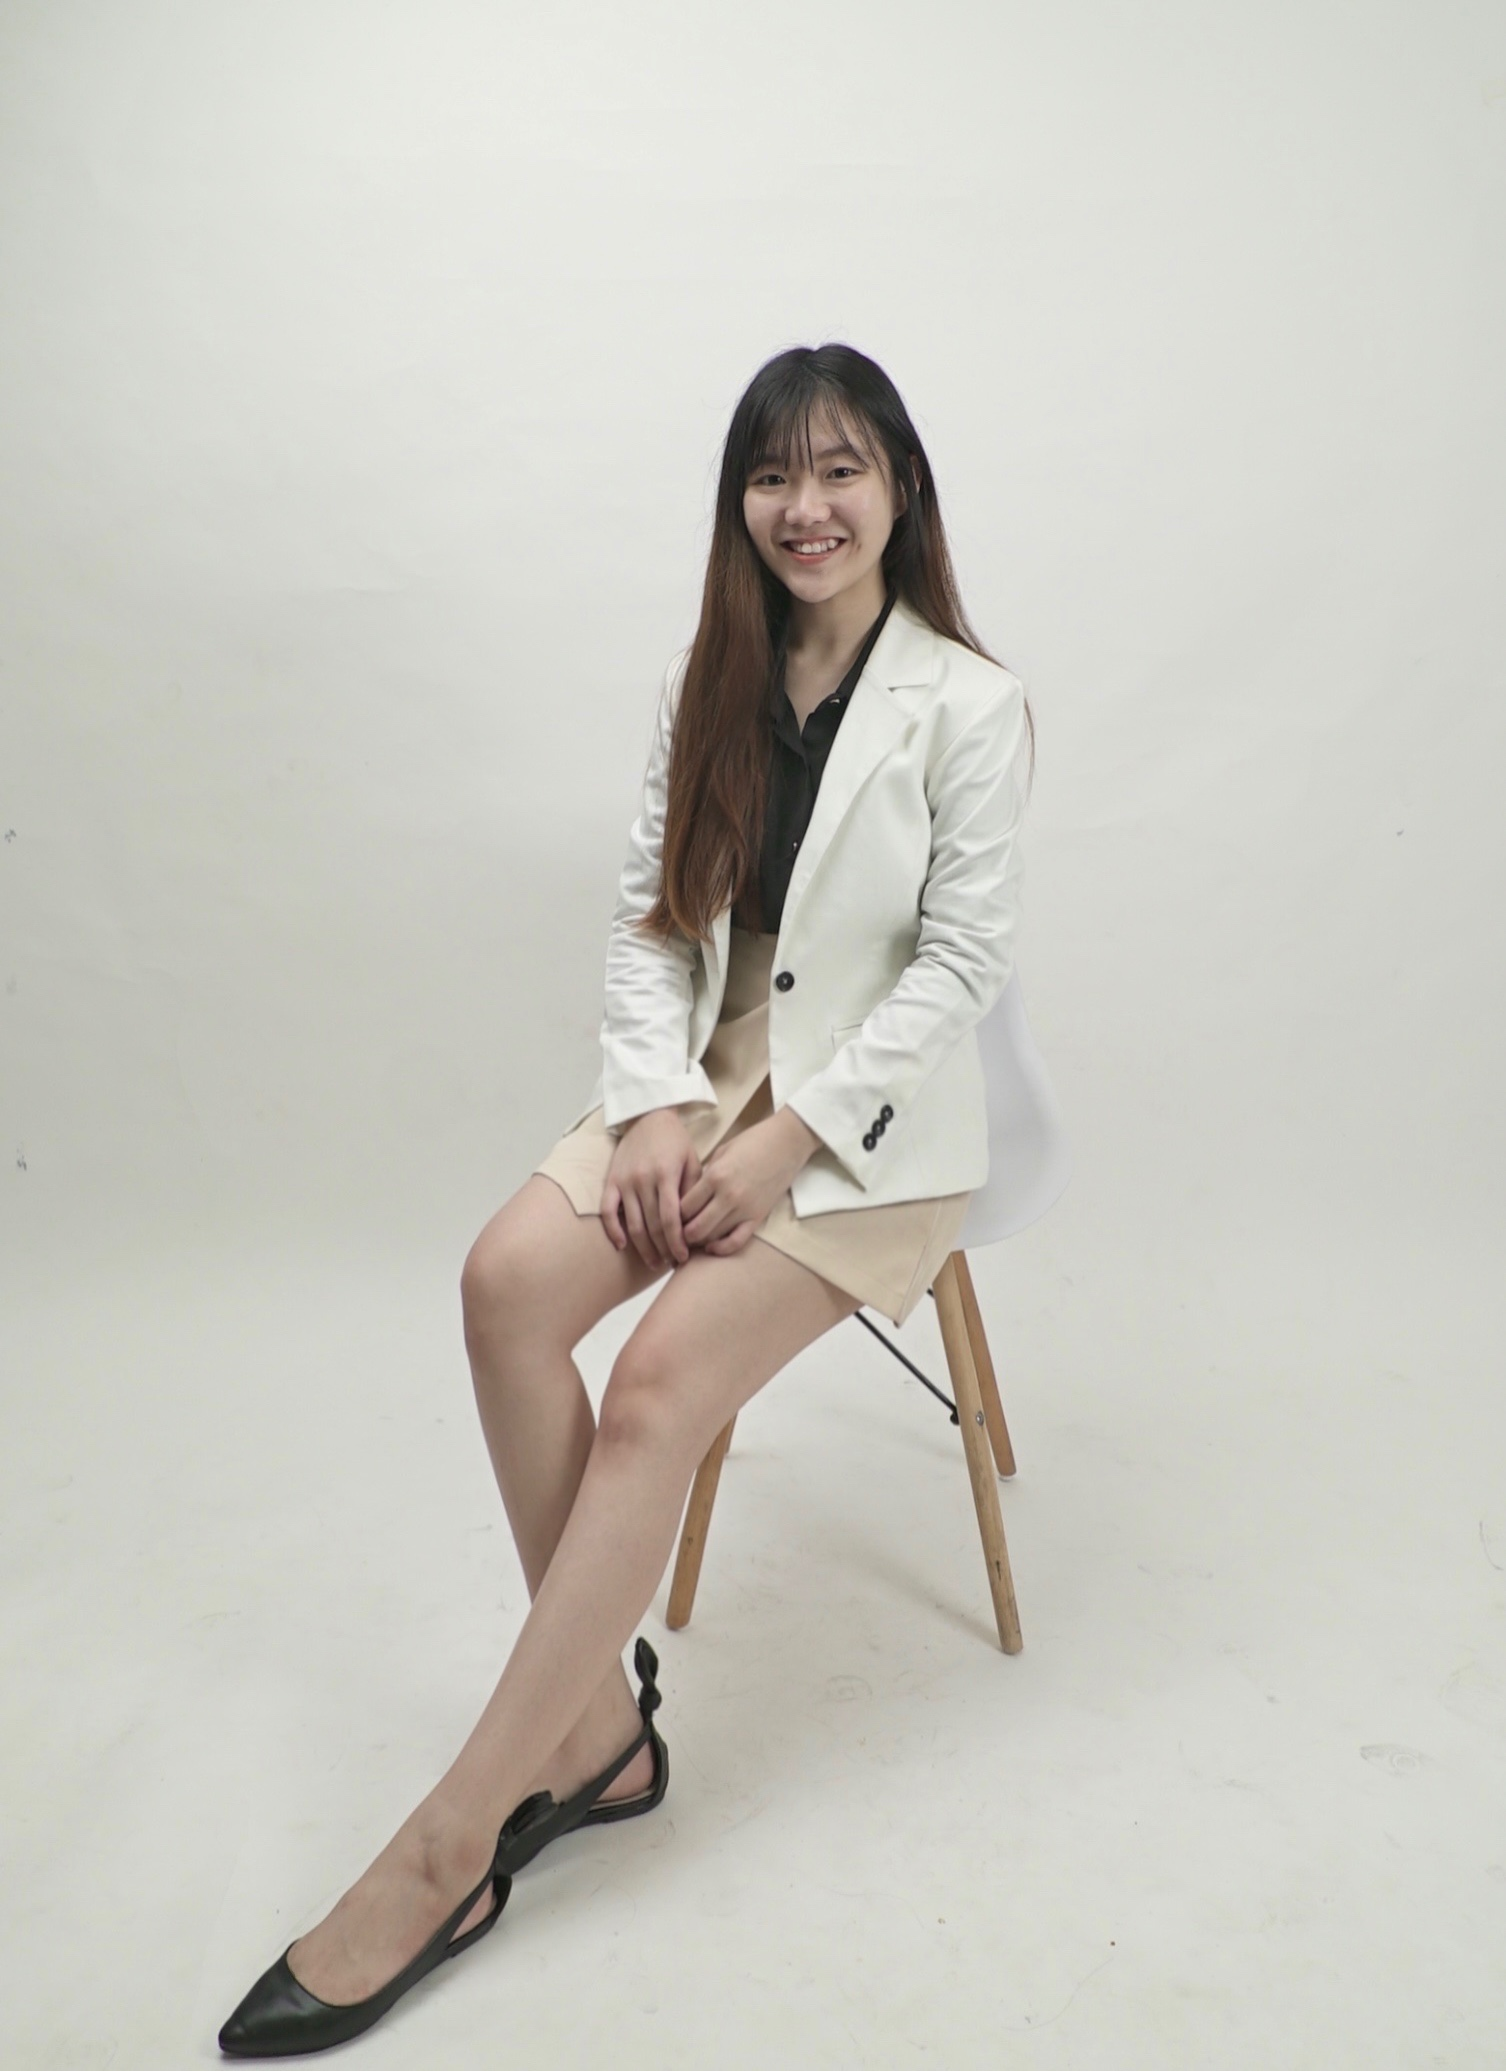
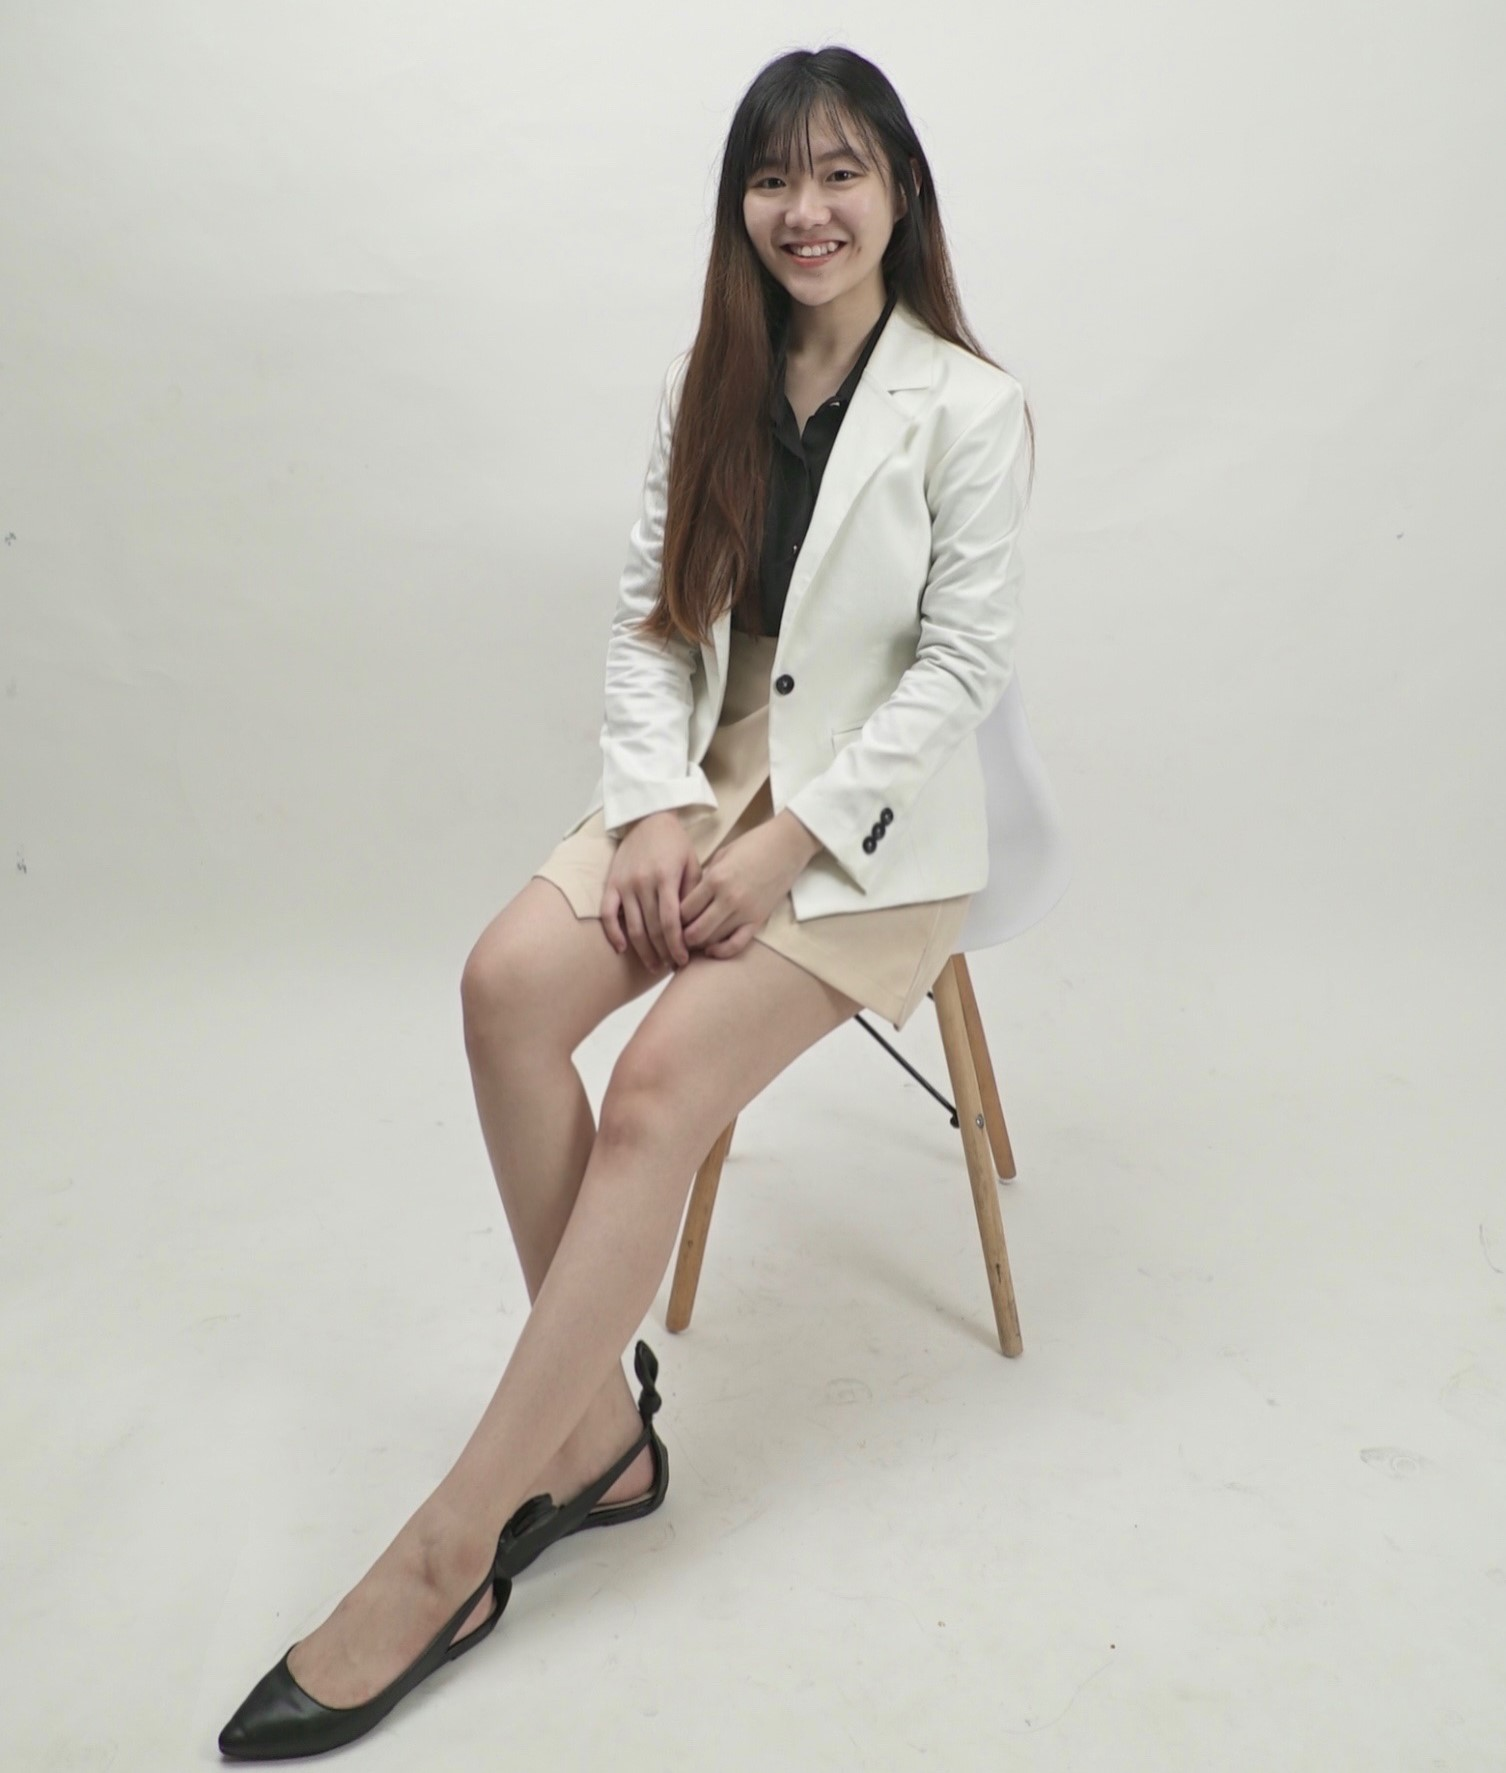
CEO image adjust

Changed region(s): [[0.156, 0.0, 0.6866, 0.9927], [0.5305, 0.6825, 0.5618, 0.7135]]

diff --git a/index.html b/index.html
@@ -363,7 +363,7 @@
     <div id="instructor" class="basic-1">
         <div class="container">
             <div class="row">
-                <div class="col-lg-6">
+                <div class="col-lg-6" id="ceoimg">
                     <img class="img-fluid" src="images/ceo_image.jpg" alt="alternative">
                 </div> <!-- end of col -->
                 <div class="col-lg-6">

diff --git a/index2.html b/index2.html
@@ -358,7 +358,7 @@
     <div id="instructor" class="basic-1">
         <div class="container">
             <div class="row">
-                <div class="col-lg-6">
+                <div class="col-lg-6" id="ceoimg">
                     <img class="img-fluid" src="images/ceo_image.JPG" alt="alternative">
                 </div> <!-- end of col -->
                 <div class="col-lg-6">

diff --git a/css/styles.css b/css/styles.css
@@ -176,6 +176,13 @@ a:hover {
 	color: #eee;
 }
 
+#ceoimg img{
+	height: 400px;
+}
+#ceoimg{
+	text-align: center;
+}
+
 .btn-solid-reg {
 	display: inline-block;
 	padding: 1.1875rem 2.125rem 1.1875rem 2.125rem;
